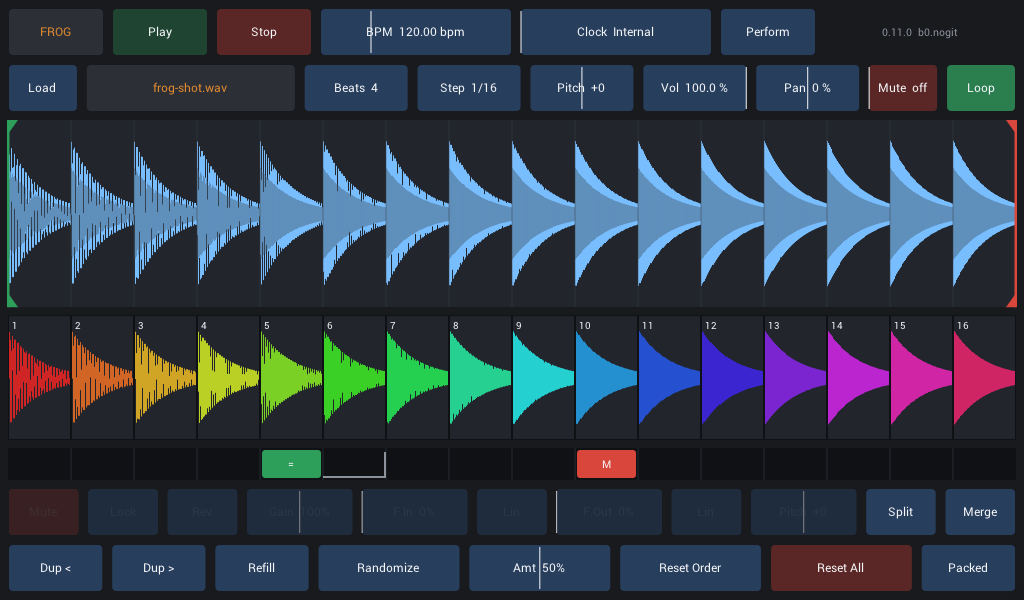
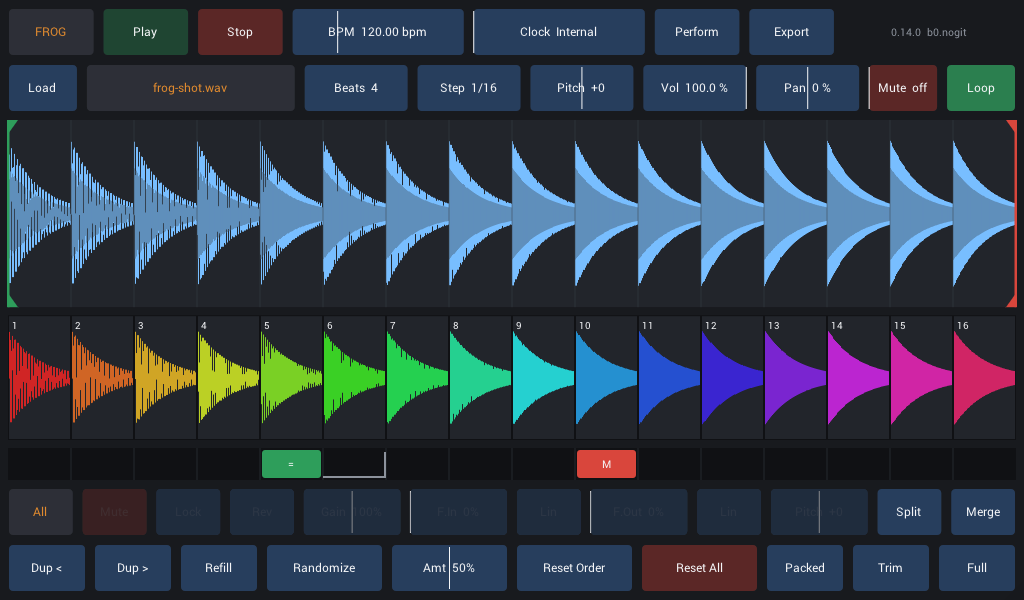
0.17.0: F17 bounce — Frog::Bounce renders the session on a worker thread into <data dir>/exports (normalised, LCM-of-beats long), Export button with live status in the transport bar, shell_test checks the bounce on arm64

diff --git a/Frog/Frog.cpp b/Frog/Frog.cpp
@@ -2,8 +2,12 @@
 #include "IPlug_include_in_plug_src.h"
 #include "IPlugPaths.h"
 
+#include "engine/render.h"
 #include "engine/sample.h"
 #include "engine/session.h"
+
+#include <ctime>
+#include <sys/stat.h>
 
 #include <cmath>
 #include <cstdlib>
@@ -57,6 +61,9 @@ Frog::Frog(const InstanceInfo& info)
 }
 
 Frog::~Frog() {
+	if (mBounceThread.joinable()) {
+		mBounceThread.join();
+	}
 	// Audio is stopped by the time the plugin is destroyed: every store the
 	// engine still holds, and every retired one, is ours to free.
 	for (int t = 0; t < FG_MAX_TRACKS && mEngine; t++) {
@@ -103,6 +110,88 @@ std::string Frog::SamplesDir() const {
 	dir.Append("/Frog/samples");
 	return dir.Get();
 }
+
+std::string Frog::ExportsDir() const {
+	if (const char* rf = getenv("RF_DATA_DIR")) {
+		return std::string(rf) + "/exports";
+	}
+	WDL_String dir;
+	AppSupportPath(dir, false);
+	dir.Append("/Frog/exports");
+	return dir.Get();
+}
+
+static void EnsureDir(const std::string& path) {
+	std::string acc;
+	for (size_t i = 1; i <= path.size(); i++) {
+		if (i == path.size() || path[i] == '/') {
+			acc = path.substr(0, i);
+			mkdir(acc.c_str(), 0755);
+		}
+	}
+}
+
+// --- bounce --------------------------------------------------------------
+
+bool Frog::Bounce() {
+	if (mBounceRunning.load()) {
+		return false;
+	}
+	if (mBounceThread.joinable()) {
+		mBounceThread.join();
+	}
+	fg_session* s = (fg_session*)calloc(1, sizeof(fg_session));
+	SnapshotSession(*s);
+	// paths are resolved against the samples dir; absolute ones pass through
+	const std::string samplesDir = SamplesDir();
+	const std::string exportsDir = ExportsDir();
+	EnsureDir(exportsDir);
+	char stamp[32];
+	const time_t now = time(nullptr);
+	strftime(stamp, sizeof stamp, "%Y%m%d-%H%M%S", localtime(&now));
+	mBouncePath = exportsDir + "/frog-" + stamp + ".wav";
+	const double sr = mSampleRate;
+	mBounceRunning.store(true);
+	mBounceDone.store(0);
+	mBounceStatus = "Exporting";
+	mBounceThread = std::thread([this, s, samplesDir, sr] {
+		fg_render_opts o = {0};
+		o.sampleRate = sr;
+		o.blockSize = 128;
+		o.normalize = true;
+		o.seed = (uint32_t)time(nullptr);
+		o.samplesDir = samplesDir.c_str();
+		fg_render_stats st = {0};
+		const bool ok = fg_render_session(s, &o, mBouncePath.c_str(), &st);
+		free(s);
+		mBounceDone.store(ok ? 1 : -1);
+		mBounceRunning.store(false);
+	});
+	return true;
+}
+
+void Frog::ServiceBounce() {
+	const int done = mBounceDone.exchange(0);
+	if (done == 0) {
+		return;
+	}
+	if (mBounceThread.joinable()) {
+		mBounceThread.join();
+	}
+	if (done > 0) {
+		mBounceResult = mBouncePath;
+		mBounceStatus = "Exported";
+	} else {
+		mBounceResult = "!" + mBouncePath;
+		mBounceStatus = "Export failed";
+	}
+}
+
+#if IPLUG_EDITOR
+const char* Frog::BounceStatus() const {
+	return mBounceStatus.c_str();
+}
+#endif
 
 static std::string ResolvePath(const std::string& dir, const std::string& p) {
 	if (p.empty() || p[0] == '/') {
@@ -388,6 +477,7 @@ void Frog::OnParamChange(int paramIdx) {
 void Frog::OnIdle() {
 	ServiceLoads();
 	ServiceRetired();
+	ServiceBounce();
 	PollVisuals();
 	for (int t = 0; t < FG_MAX_TRACKS; t++) {
 		if (fg_engine_take_pattern_change(mEngine, t)) {

diff --git a/Frog/Frog.h b/Frog/Frog.h
@@ -10,8 +10,10 @@
 #include "ui/Peaks.h"
 #endif
 
+#include <atomic>
 #include <memory>
 #include <string>
+#include <thread>
 #include <vector>
 
 // Frog — sample slicer and loop performer. The plugin class is the shell
@@ -73,12 +75,20 @@ public:
 	void PlayAll();
 	void StopAll();
 	int PendingLoadCount() const { return (int)mPendingLoads.size(); }
+	// Bounce the session to <data dir>/exports/frog-<stamp>.wav on a worker
+	// thread (its own engine, samples reloaded from their paths). One at a time.
+	bool Bounce();
+	bool Bouncing() const { return mBounceRunning.load(); }
+	const std::string& LastBounce() const { return mBounceResult; }   // path, or an error after "!"
+	std::string ExportsDir() const;
 	const std::string& TrackPath(int track) const { return mTrackPaths[track]; }
 	const char* TrackName(int track) const { return mTrackNames[track].c_str(); }
 
 #if IPLUG_EDITOR
 	// frogui::Host
 	void Publish(int track) override { fg_engine_publish(mEngine, track); }
+	void StartBounce() override { Bounce(); }
+	const char* BounceStatus() const override;
 	const frogui::Peaks& TrackPeaks(int track) const override { return mPeaks[track]; }
 	void LoadSample(int track, const std::string& path) override { RequestLoadSample(track, path); }
 	int& NextColor(int track) override { return mNextColor[track]; }
@@ -119,6 +129,7 @@ private:
 	void ServiceLoads();
 	void ServiceRetired();
 	void PollVisuals();
+	void ServiceBounce();
 
 	fg_engine* mEngine = nullptr;
 	std::vector<PendingLoad> mPendingLoads;   // main thread only
@@ -128,6 +139,12 @@ private:
 	int mNextColor[FG_MAX_TRACKS] = {0};
 	fg_edit_mode mEditMode = FG_EDIT_PACK;
 	double mSampleRate = 48000.;
+	std::thread mBounceThread;
+	std::atomic<bool> mBounceRunning{false};
+	std::atomic<int> mBounceDone{0};   // 1 ok, -1 failed, 0 none
+	std::string mBouncePath;           // written by the worker before mBounceDone
+	std::string mBounceResult;
+	std::string mBounceStatus = "Export";
 	// the recent slots per track, from the engine's visual ring (main thread)
 	static constexpr int kNoteRing = 32;
 	fg_visual mNotes[FG_MAX_TRACKS][kNoteRing];

diff --git a/platform/linux/tests/shell_test.cpp b/platform/linux/tests/shell_test.cpp
@@ -12,15 +12,17 @@
 
 #include <cmath>
 #include <cstdio>
+#include <cstdlib>
 #include <string>
+#include <unistd.h>
 #include <vector>
 
 namespace {
 
 int gFail = 0;
 
-void check(bool ok, const char* what) {
-	std::printf("  %-4s %s\n", ok ? "PASS" : "FAIL", what);
+void check(bool ok, const char* what, const std::string& detail = "") {
+	std::printf("  %-4s %s %s\n", ok ? "PASS" : "FAIL", what, detail.c_str());
 	if (!ok) {
 		++gFail;
 	}
@@ -197,6 +199,30 @@ int main() {
 	check(b.peakIn(0, 16) > 0.5 * m / 16.0, "the restored instance plays the sample again (at 133 bpm)");
 	check(b.peakIn(5300, 10800) == 0.0, "the restored mute on unit 1 holds");
 	check(b.peakIn(16241, 16260) > 0.5 * m * 4.0 / 16.0, "unit 3 follows at the restored tempo (unit 2 is the reversed one)");
+
+	std::printf("=== bounce from the plugin ===\n");
+	setenv("RF_DATA_DIR", "/tmp/frog-shell-data", 1);
+	check(b.plug.Bounce(), "Bounce() starts a worker");
+	check(!b.plug.Bounce(), "a second one is refused while it runs");
+	for (int i = 0; i < 2000 && b.plug.Bouncing(); i++) {
+		usleep(5000);
+	}
+	b.proc.idle();
+	check(!b.plug.Bouncing() && !b.plug.LastBounce().empty() && b.plug.LastBounce()[0] != '!', "the bounce finished", b.plug.LastBounce());
+	{
+		fg_sample* out = fg_sample_load_wav(b.plug.LastBounce().c_str(), 0.0, 0.0);
+		check(out != nullptr && out->frames > 0, "the WAV reads back");
+		if (out) {
+			double peak = 0.0;
+			for (int64_t i = 0; i < out->frames; i++) {
+				peak = std::max(peak, (double)std::fabs(out->ch[0][i]));
+			}
+			check(peak > 0.9, "normalised to 0.99", std::to_string(peak));
+			// 4 beats at 133 bpm (the restored tempo) at 48 k
+			check(std::llabs(out->frames - (int64_t)std::llround(4.0 * 60.0 / 133.0 * 48000.0)) <= 1, "one bar long at the session tempo", std::to_string(out->frames));
+			fg_sample_free(out);
+		}
+	}
 
 	std::printf("%s\n", gFail == 0 ? "ALL CHECKS PASSED" : "SOME CHECKS FAILED");
 	return gFail == 0 ? 0 : 1;

diff --git a/Frog/ui/FrogView.h b/Frog/ui/FrogView.h
@@ -42,6 +42,8 @@ public:
 	virtual std::string SamplesDir() const = 0;
 	virtual void PlayAll() = 0;
 	virtual void StopAll() = 0;
+	virtual void StartBounce() = 0;
+	virtual const char* BounceStatus() const = 0;   // "Export", "Exporting", "Exported", ...
 	virtual int& NextColor(int track) = 0;
 	virtual fg_edit_mode& EditMode() = 0;
 	// the latest sounding slot for the track, or nullptr
@@ -106,6 +108,10 @@ public:
 
 	// Per idle tick from the plugin (the UI thread): playback feedback.
 	void Idle() {
+		if (mExportStatus != mHost.BounceStatus()) {
+			mExportStatus = mHost.BounceStatus();
+			mExportBtn->SetDirty(false);
+		}
 		const fg_visual* v = mHost.CurrentNote(mTrack);
 		const int64_t now = fg_engine_now(mHost.Engine());
 		const double sr = 48000.0;   // flash timing only; a 180 ms window
@@ -222,6 +228,8 @@ private:
 			mPerform = v >= 0.5;
 			Layout(g);
 		}), mTransport, 1.f));
+		mExportBtn = drag(add(DragControl::Button(z, "Export", Intent::Neutral, [this](double) { mHost.StartBounce(); }), mTransport, 1.f));
+		mExportBtn->WithFormat([this](double) { return std::string(mHost.BounceStatus()); });
 		g->AttachControl(mVersion = new FrogVersionReadout(z));
 		mTransport.push_back({mVersion, 2.f});
 
@@ -644,6 +652,8 @@ private:
 	DragControl *mModHits = nullptr, *mModTo = nullptr, *mModPitch = nullptr, *mModLen = nullptr;
 	FrogVersionReadout* mVersion = nullptr;
 	FileListControl* mFileList = nullptr;
+	DragControl* mExportBtn = nullptr;
+	std::string mExportStatus;
 	DragControl *mPerformBtn = nullptr, *mFileChip = nullptr, *mBeats = nullptr, *mStep = nullptr, *mPitch = nullptr, *mLoop = nullptr;
 	DragControl* mAll = nullptr;
 	DragControl *mMute = nullptr, *mLock = nullptr, *mRev = nullptr, *mGain = nullptr, *mFadeIn = nullptr, *mCurveIn = nullptr, *mFadeOut = nullptr, *mCurveOut = nullptr, *mOffset = nullptr;

diff --git a/Frog/config.h b/Frog/config.h
@@ -1,7 +1,7 @@
 #define PLUG_NAME "Frog"
 #define PLUG_MFR "Rat Factory"
-#define PLUG_VERSION_HEX 0x00000E00
-#define PLUG_VERSION_STR "0.14.0"
+#define PLUG_VERSION_HEX 0x00001100
+#define PLUG_VERSION_STR "0.17.0"
 // AU subtype is the product, manufacturer is the org: auval -v aumu Frog RatF.
 // Keep these lines free of trailing comments — prepare_resources-mac.py parses
 // config.h by hand and folds anything after the value into the plist string.

diff --git a/ROADMAP.md b/ROADMAP.md
@@ -49,7 +49,7 @@ Design and reasoning: [docs/PORT_PLAN.md](docs/PORT_PLAN.md).
 | F14 | Ratchet + pattern tools — even / ramp / pitch hit layouts, span absorption, randomize with lock buckets, Reset Order / Reset All, lock, dup, refill, split / merge, Packed vs Gaps (rasterize → rebuild), grid-change inheritance, the All broadcast, zoom (Trim / Full) | Done 0.14.0 |
 | F15 | Multi-track — up to `max_tracks` (4 on Pi 3), focus track + summary rows, add / duplicate / remove, in-phase join, master mix | Planned |
 | F16 | Performance MIDI — note-triggered slices, CC map (learn), program change = session, `appliance.conf` keys | Planned |
-| F17 | Bounce — offline render of the master mix to `RF_DATA_DIR/exports`, length in beats, normalise | Planned |
+| F17 | Bounce — offline render of the master mix to `RF_DATA_DIR/exports`, one bar (LCM of the tracks' beats), normalised | Done 0.17.0 |
 | F18 | Record — runs in parallel with the MVP (decided 2026-10-03). Two halves with one status: **host capture** (ALSA capture PCM + an input path on `Processor`), an L-item to open in ratfactory-linux-host and link here once numbered; **Frog side** (record into a track, re-slice live), developed on the Mac first. Both rows move together, same commit | Planned |
 | F19 | Transient markers — detection + draggable non-uniform slice points (needs the model change noted in the JS NEXT.md) | Planned |
 
@@ -62,6 +62,15 @@ Design and reasoning: [docs/PORT_PLAN.md](docs/PORT_PLAN.md).
 | F1.3 | Write docs/PORT_PLAN.md: architecture, stretch strategy, clock sources, caps, UI adaptation, milestones, tests, risks | Done |
 | F1.4 | Branches: `js` preserves the browser app at its last commit; `native` carries the port | Done |
 | F1.5 | Decisions (2026-10-03, **0.1.1**): name **Frog**; record (F18) runs in parallel with the MVP with both halves tracked in sync; float32 sample storage accepted, all shared math stays `double` | Done |
+
+### F17 — Bounce
+
+| ID | Subtask | Status |
+|----|---------|--------|
+| F17.1 | `Frog::Bounce()`: snapshot the session, render it on a worker thread through `fg_render_session` (its own engine; samples reloaded from their paths) to `<data dir>/exports/frog-<stamp>.wav`, normalised, LCM-of-beats long at the current tempo; one at a time; results collected on the idle tick | Done |
+| F17.2 | Export button in the transport bar whose text follows the status (Export / Exporting / Exported / Export failed) | Done |
+| F17.3 | `shell_test`: a bounce from the restored instance finishes, reads back, peaks at 0.99 and is one bar long at the session tempo | Done |
+| F17.4 | Length in beats and a track subset from the UI (the browser's export panel) | Planned |
 
 ### F14 — Ratchet + pattern tools
 
@@ -253,6 +262,9 @@ on the way. Bounces are committed, so `run-tests.sh` needs no browser.
   both build systems, root gitignore. APP / VST3 / AU build Release with
   Xcode 26.6; auval passes; CMake configures. The VST3 SDK must be fetched
   once with the fork's `download-vst3-sdk.sh`.
+- **F17 bounce (0.17.0).** Export from the transport bar renders the
+  session off the UI thread into the data dir; the headless test exercises
+  it on arm64. Length / subset choices stay open (F17.4).
 - **F14 complete (0.14.0).** The All broadcast and the Trim / Full zoom
   close the pattern-tool list; everything else in F14 had landed with F6
   and F10. Next: F17 (bounce from the UI) and F15 (multi-track), then F16.
